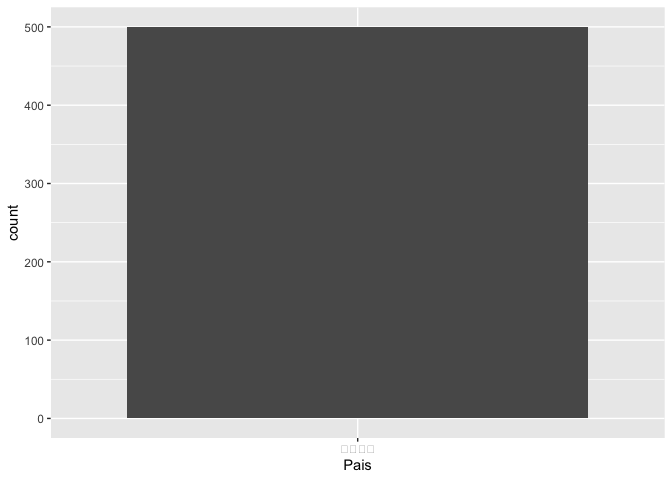
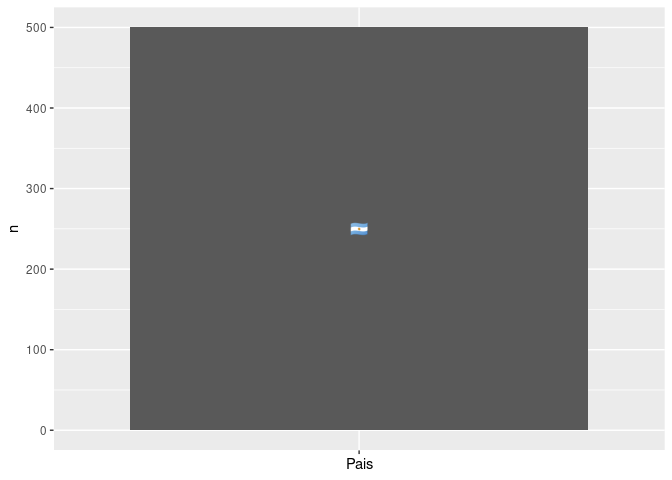
Updating plot.

diff --git a/README.md b/README.md
@@ -20,10 +20,23 @@ muestra de 500, veamos la distribución del país de los contribuyentes:
 
 ``` r
 library("firstContributionsInR")
+library("dplyr")
+#> 
+#> Attaching package: 'dplyr'
+#> The following objects are masked from 'package:stats':
+#> 
+#>     filter, lag
+#> The following objects are masked from 'package:base':
+#> 
+#>     intersect, setdiff, setequal, union
 library("ggplot2")
 
-ggplot(muestra_contribuyentes(n = 500), aes(x = Pais)) +
-  geom_bar()
+muestra_contribuyentes(n = 500) %>% 
+  count(Pais) %>% 
+  ggplot(aes(x = Pais, y = n, label = Pais)) +
+  geom_col() +
+  geom_text(aes(y = n / 2)) +
+  theme(axis.text.x = element_blank())
 ```
 
 <img src="README_files/figure-gfm/muestreo-1.png" width="100%" />
@@ -138,19 +151,3 @@ ejemplo [el de `ggplot2`](https://github.com/tidyverse/ggplot2). Haz
 click en el botón
 [*Issues*](https://github.com/tidyverse/ggplot2/issues). Asígnate uno de
 los cientos de issues que debe haber sin resolver\!
-
-### Hacktoberfest
-
-Oye\! Estamos en Octubre, época en la que
-[Hacktoberfest](https://hacktoberfest.digitalocean.com/) nos premia por
-contribuir al código libre\! Inscríbete al Hacktoberfest, y durante todo
-Octubre, si realizas 4 Pull Requests a repositorios adheridos, recibirás
-un premio por ello\!
-
-¿Que repositorios participan en Hacktoberfest? En el [siguiente
-enlace](https://github.com/search?l=R&q=label%3Ahacktoberfest+state%3Aopen+no%3Aassignee+is%3Aissue&type=Issues)
-encontrarás repositorios R para los cuales sus creadores han marcado
-issues facilmente solucionables durante el Hacktoberfest. Además,
-también valen PR, no asociadas a issues, para cualquiera de los
-repositorios R de [esta
-lista](https://github.com/topics/hacktoberfest?l=R).
